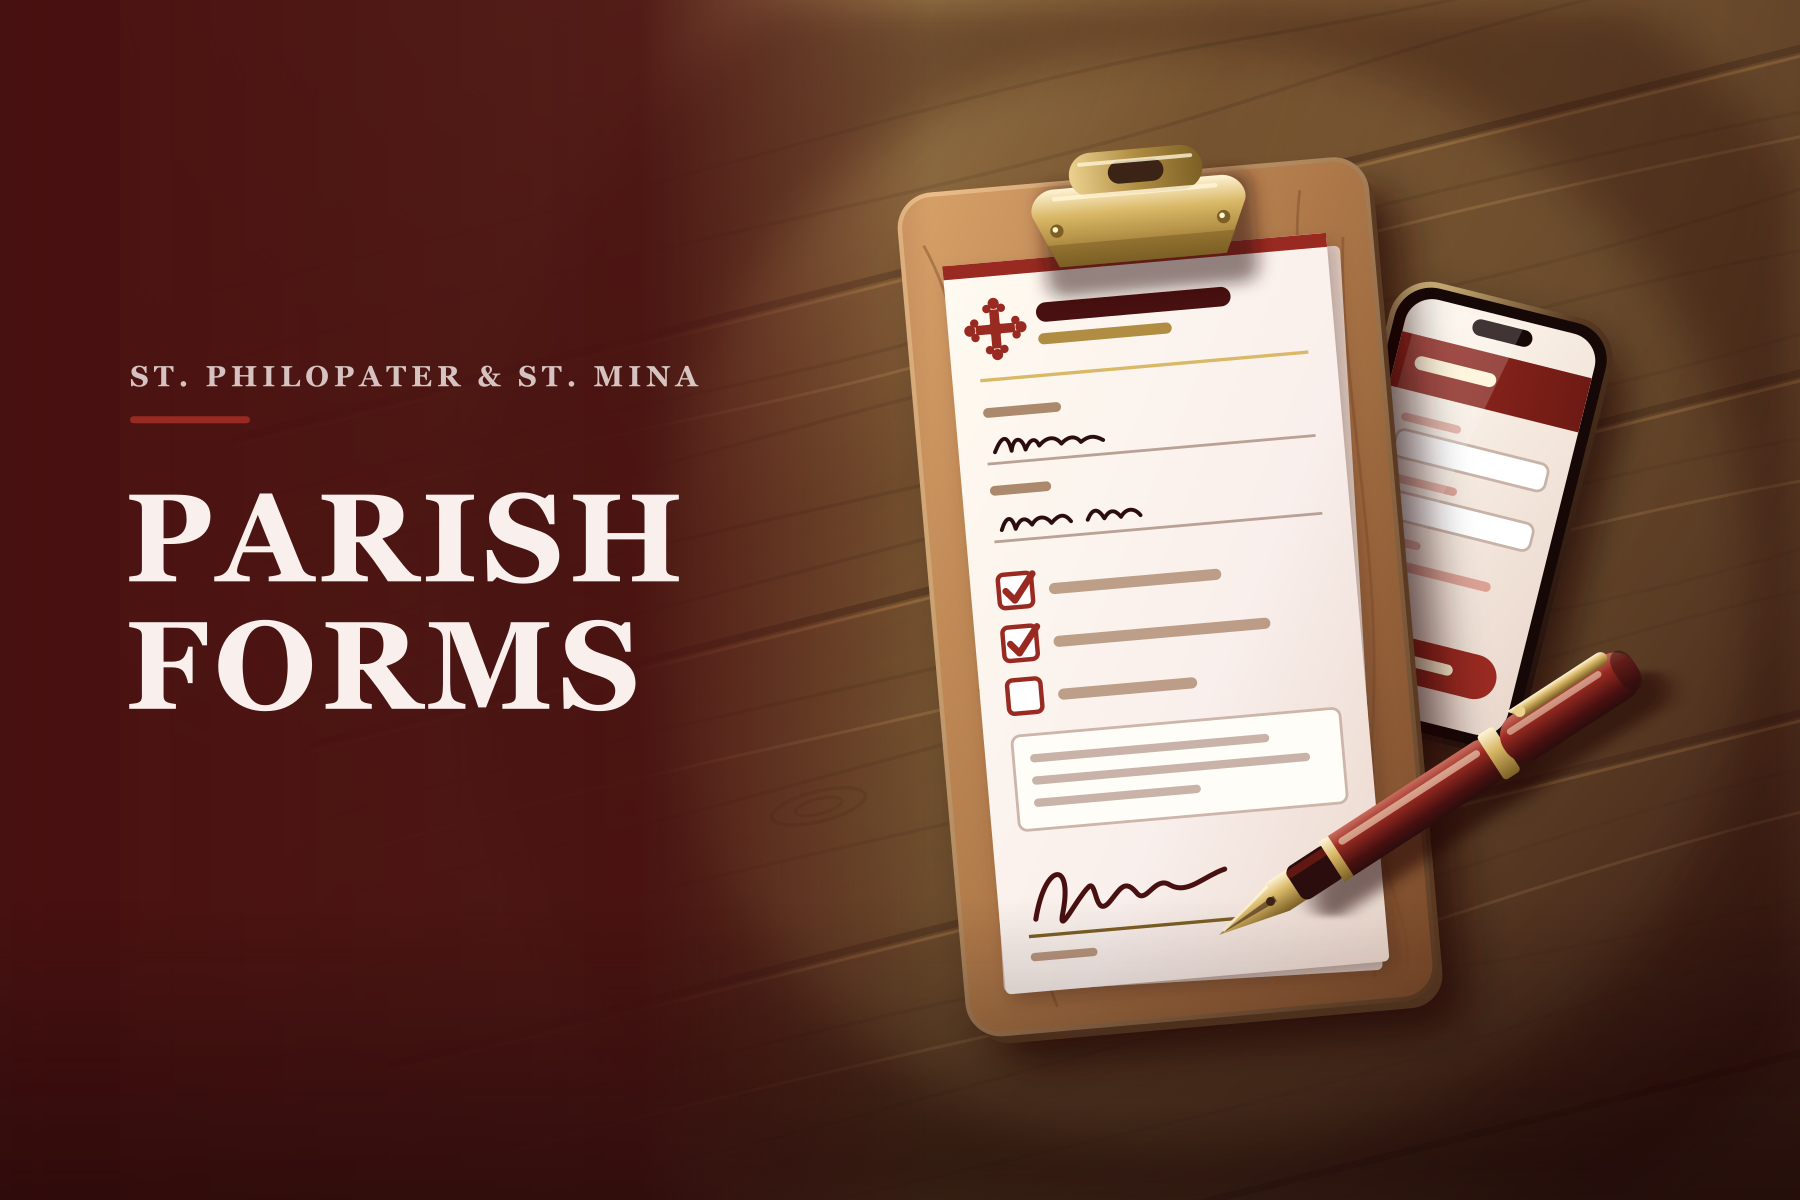
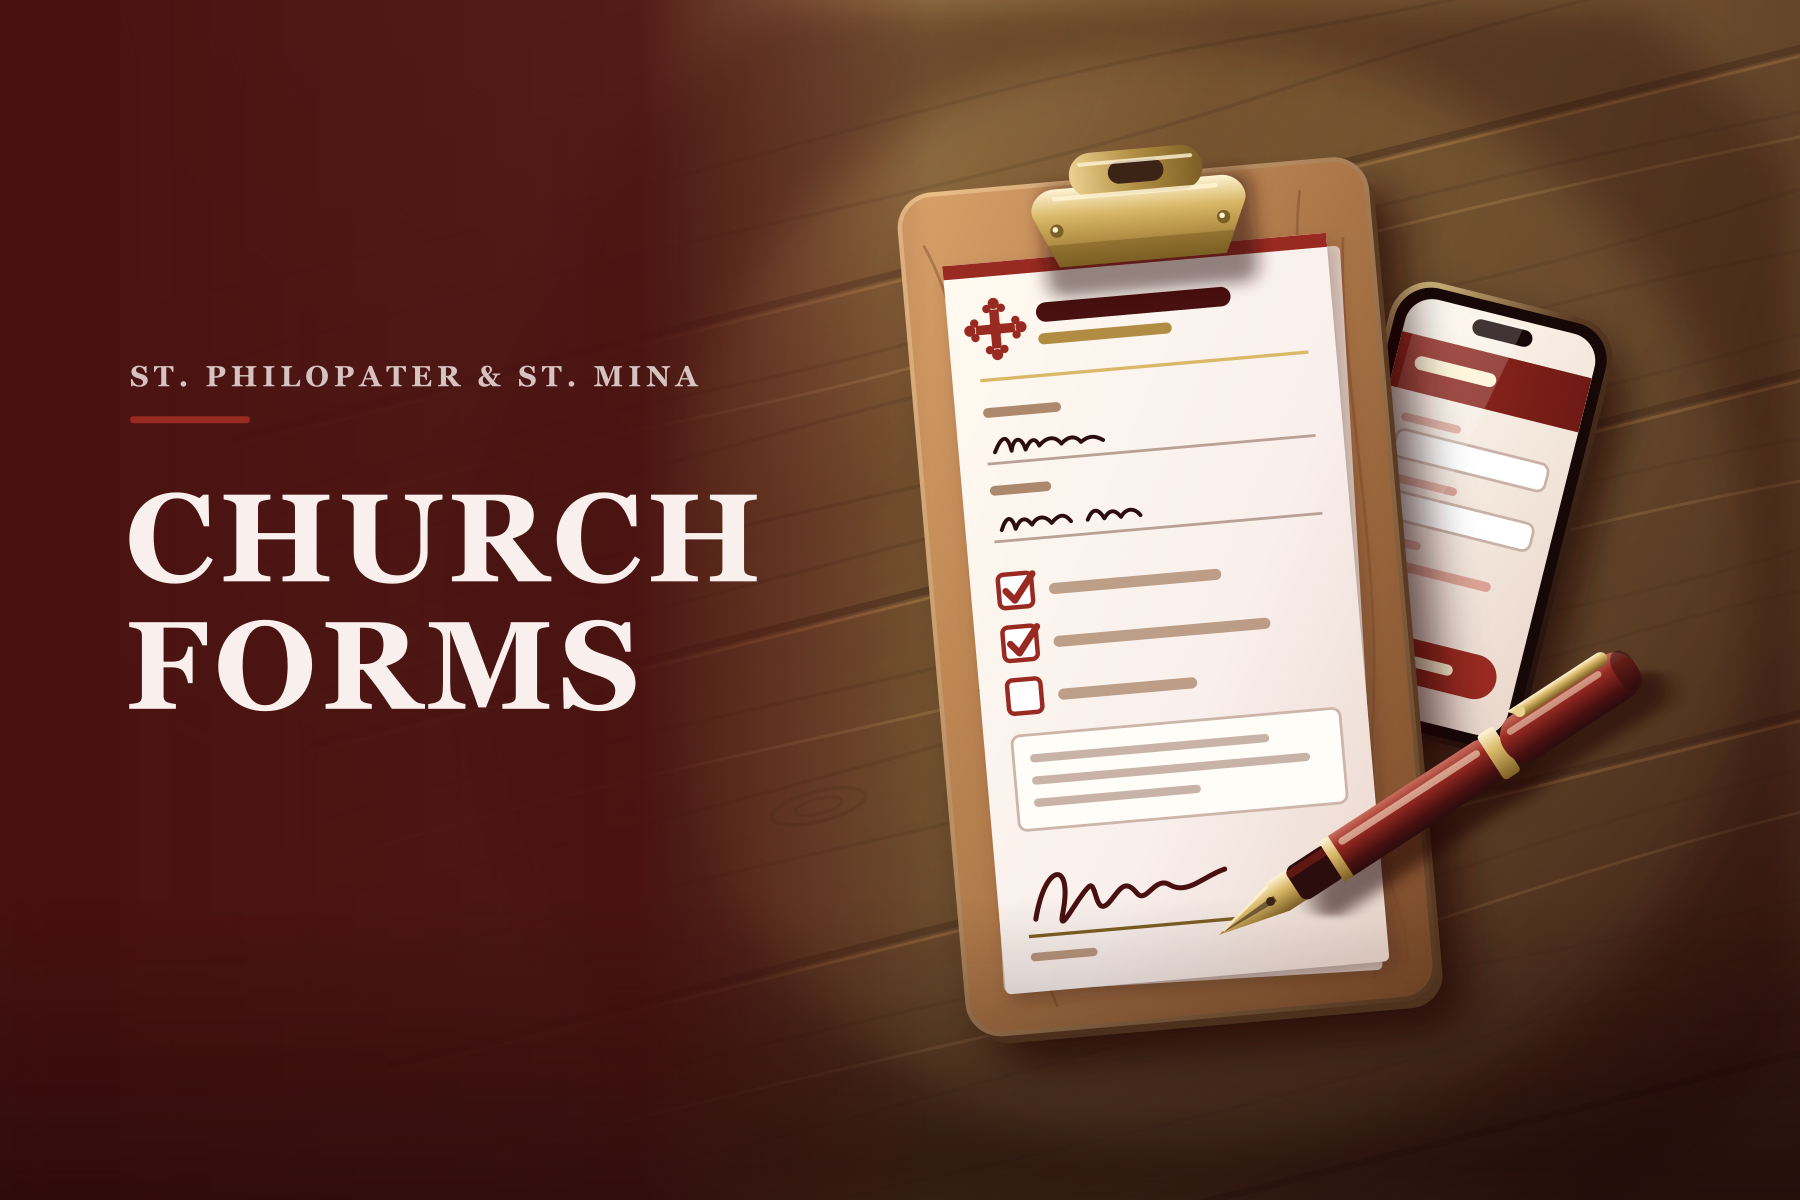
Bump to 1.0.3 / versionCode 17, redraw clip cards and stickers, add clip-tour
Church Forms on the forms clip card, refreshed bookstore and schedule
stickers and cards, and `npm run clip-tour` to walk the Debug clip's
experiences on the booted simulator.

Changed region(s): [[0.0622, 0.4008, 0.4356, 0.4933]]

diff --git a/app.config.ts b/app.config.ts
@@ -208,7 +208,7 @@ const APPLE_PAY_MERCHANT_ID = process.env.APPLE_PAY_MERCHANT_ID ?? '';
 const IOS_BUILD = Number(process.env.IOS_BUILD_NUMBER ?? 1);
 
 /** Play's versionCode. This is the one that climbs. */
-const ANDROID_VERSION_CODE = Number(process.env.ANDROID_VERSION_CODE ?? 15);
+const ANDROID_VERSION_CODE = Number(process.env.ANDROID_VERSION_CODE ?? 17);
 
 for (const [name, value, variable] of [
   ['iOS build number', IOS_BUILD, 'IOS_BUILD_NUMBER'],
@@ -225,7 +225,7 @@ for (const [name, value, variable] of [
 const config: ExpoConfig = {
   name: IS_PRODUCTION ? 'SPSM Connect' : 'SPSM Connect (dev)',
   slug: 'spsm-connect',
-  version: '1.0.1',
+  version: '1.0.3',
   orientation: 'default',
   icon: './assets/icon.png',
   scheme: 'spsmconnect',
